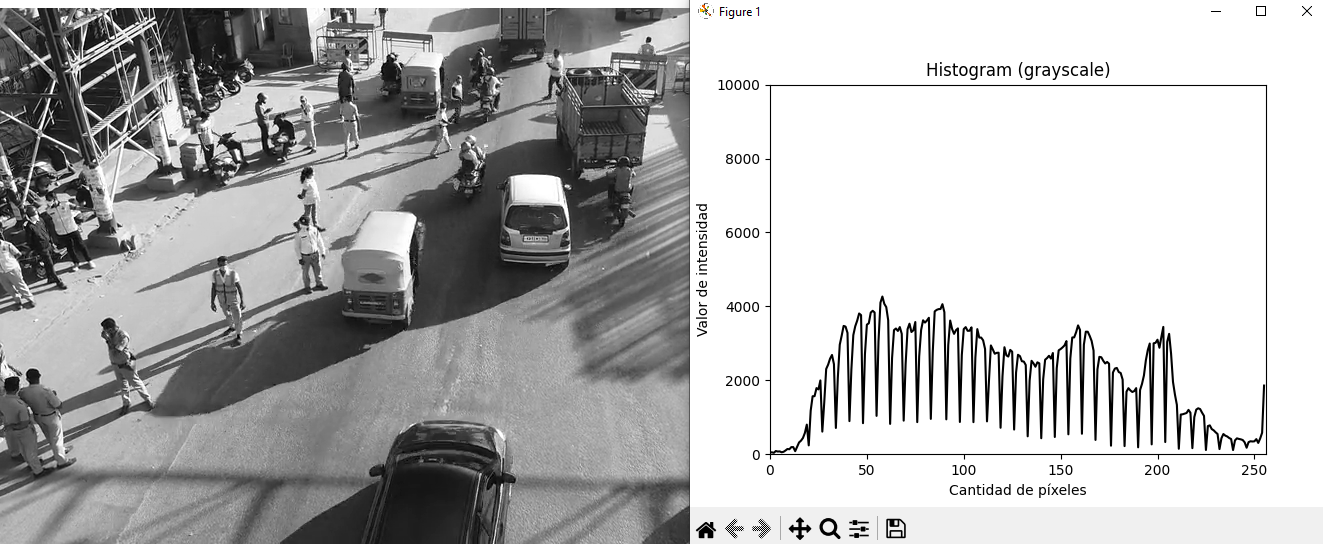
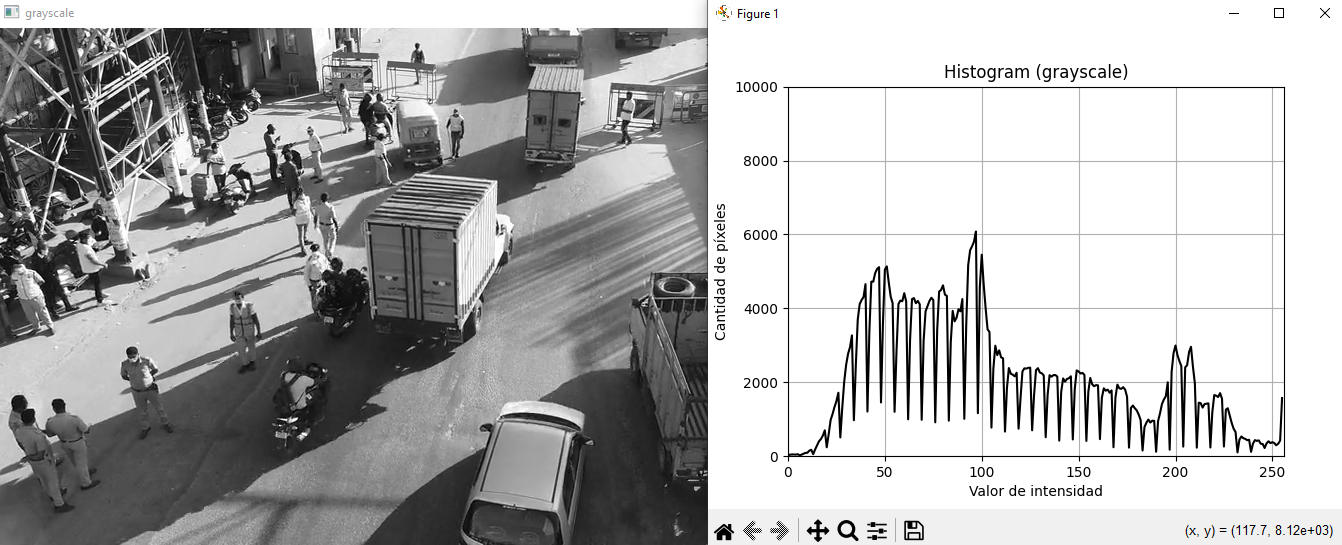
Corrijo errores

diff --git a/VideoHistogram.py b/VideoHistogram.py
@@ -18,10 +18,11 @@ class VideoHistogram:
             self.cap = cv2.VideoCapture(0)
 
         self. fig, self. ax = plt.subplots()
-        self.ax.set_xlabel("Cantidad de píxeles")
-        self.ax.set_ylabel("Valor de intensidad")
-        self.ax.set_xlim(0, 256)
-        self.ax.set_ylim(0, 10000)
+        self.ax.set_xlabel("Valor de intensidad")
+        self.ax.set_ylabel("Cantidad de píxeles")
+        self.ax.set_xlim(0, 256)  # Eje x de 0 a 256
+        self.ax.set_ylim(0, 10_000)  # Eje y de 0 a 10000
+        self.ax.grid(True)  # Habilitar la cuadrícula
 
     def __update_histogram(self, linea, histograma):
         # Actualizar la línea del plot con los valores del histograma
@@ -36,7 +37,7 @@ class VideoHistogram:
 
     def gray_histogram(self):
         self.ax.set_title("Histogram (grayscale)")
-        linea, = self.ax.plot(np.arange(256), np.zeros((256,1)), c='k', label='intensity')
+        linea, = self.ax.plot(np.arange(256), np.zeros(256), c='k', label='intensity')
         plt.ion()
         plt.show()
         while self.cap.isOpened():
@@ -61,9 +62,9 @@ class VideoHistogram:
 
     def rgb_histogram(self):
         self.ax.set_title("Histogram (RGB)")
-        linea_b, = self.ax.plot(np.arange(256), np.zeros((256,1)), c='b', label='Blue')
-        linea_g, = self.ax.plot(np.arange(256), np.zeros((256,1)), c='g', label='Green')
-        linea_r, = self.ax.plot(np.arange(256), np.zeros((256,1)), c='r', label='Red')
+        linea_b, = self.ax.plot(np.arange(256), np.zeros(256), c='b', label='Blue')
+        linea_g, = self.ax.plot(np.arange(256), np.zeros(256), c='g', label='Green')
+        linea_r, = self.ax.plot(np.arange(256), np.zeros(256), c='r', label='Red')
         plt.ion()
         plt.show()
         while self.cap.isOpened():
@@ -104,5 +105,5 @@ class VideoHistogram:
 
 
 hist = VideoHistogram(1)
-# hist.gray_histogram()
-hist.rgb_histogram()
+hist.gray_histogram()
+# hist.rgb_histogram()

diff --git a/histogramRGB.py b/histogramRGB.py
@@ -6,21 +6,22 @@ import numpy as np
 # Inicial la figura y el subplot.
 fig, ax = plt.subplots()
 ax.set_title("Histogram (RGB)")
-ax.set_xlabel("Cantidad de píxeles")
-ax.set_ylabel("Valor de intensidad")
-ax.set_xlim(0, 256)
-ax.set_ylim(0, 40000)
+ax.set_xlabel("Valor de intensidad")
+ax.set_ylabel("Cantidad de píxeles")
+ax.set_xlim(0, 256)  # Eje x de 0 a 256
+ax.set_ylim(0, 10_000)  # Eje y de 0 a 40000
+ax.grid(True)  # Habilitar la cuadrícula
 
 # Dibujar las lineas iniciales.
-linea_b, = ax.plot(np.arange(256), np.zeros((256,1)), c='b', label='Blue')
-linea_g, = ax.plot(np.arange(256), np.zeros((256,1)), c='g', label='Green')
-linea_r, = ax.plot(np.arange(256), np.zeros((256,1)), c='r', label='Red')
+linea_b, = ax.plot(np.arange(256), np.zeros(256), c='b', label='Blue')
+linea_g, = ax.plot(np.arange(256), np.zeros(256), c='g', label='Green')
+linea_r, = ax.plot(np.arange(256), np.zeros(256), c='r', label='Red')
 
 # Mostrar figuras.
-plt.ion()
-plt.show()
+plt.ion()  # Activa la interacción con la ventana.
+plt.show()  # Muestra la ventana.
 
-cap = cv2.VideoCapture(0)
+cap = cv2.VideoCapture(1)
 
 while cap.isOpened():
     ret, frame = cap.read()

diff --git a/histogramGray.py b/histogramGray.py
@@ -6,20 +6,21 @@ import numpy as np
 # Inicial la figura y el subplot.
 fig, ax = plt.subplots()
 ax.set_title("Histogram (grayscale)")
-ax.set_xlabel("Cantidad de píxeles")
-ax.set_ylabel("Valor de intensidad")
-ax.set_xlim(0, 256)
-ax.set_ylim(0, 10000)
+ax.set_xlabel("Valor de intensidad")
+ax.set_ylabel("Cantidad de píxeles")
+ax.set_xlim(0, 256)  # Eje x de 0 a 256
+ax.set_ylim(0, 10_000)  # Eje y de 0 a 10000
+ax.grid(True)  # Habilitar la cuadrícula
 
 # Dibujar la linea inicial.
-linea, = ax.plot(np.arange(256), np.zeros((256,1)), c='k', label='intensity')
+linea, = ax.plot(np.arange(256), np.zeros(256), c='k', label='intensity')
 # linea, = ax.plot([128, 128], [0, 1], c='k', label='intensity')
 
 # Mostrar figura.
 plt.ion()
 plt.show()
 
-cap = cv2.VideoCapture(0)
+cap = cv2.VideoCapture(1)
 
 while cap.isOpened():
     ret, frame = cap.read()
